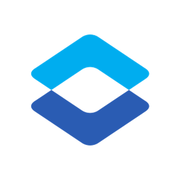
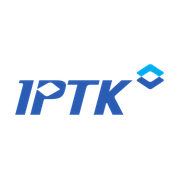
v365: 기준정보 › 바탕화면 바로가기 (IPTK 로고 아이콘) (#57)
* v348: 제작계획등록·제작진행현황 출력 버튼 (A4·A3 인쇄 / PDF / Excel)

- 공용 mes_print.js: 상단 오른쪽 [🖨 출력 ▾] 메뉴
- 인쇄·PDF: 화면 그대로 찍어 가로 용지에 맞춤 (스크롤에 가려진 행 포함, 행 경계에서 쪽 나눔)
- Excel: 서식 양식 (테두리·색·병합, 지연 노랑/앞당김 연두, 제품형상 그림)

Claude-Session: https://claude.ai/code/session_01HCMiutaGwPcULmjGLnqo58

* v349: 금형원가내역 「목표 대비」 줄 가독성 개선 — 목표·실적·결과 세 묶음

- 한 줄로 이어 쓰던 금액을 [목표] 수주가·이익금·목표가+관리비=목표 합계 / [실적] 총원가+관리비=실적 합계 / [결과] 달성률·잔여·현재 이익 으로 나눔
- 항목명은 위에 작게, 금액은 아래 크게 · 합계 칸 강조 · 목표 초과는 빨강

Claude-Session: https://claude.ai/code/session_01HCMiutaGwPcULmjGLnqo58

* v350: 매입현황 합계 줄 가독성 개선

- 견적가·확정가 합계를 각 열 바로 아래에 맞춰 표시
- 왼쪽에 합계 건수 · 구분별 소계(원재료·구매품·외주가공 등, 2종 이상일 때) · 확정−견적 차액(증가 빨강/감소 초록)

Claude-Session: https://claude.ai/code/session_01HCMiutaGwPcULmjGLnqo58

* v351: PartList 등록(원재료) — 금형번호별 도면 PDF 일괄등록

- [📄 도면PDF 일괄등록]: PDF 여러 개 또는 ZIP 선택 → 파일 이름 앞 금형번호(B17A_….pdf → B17A)로 자동 연결
- 미리보기 창에서 맞음/목록 밖/PDF 없는 금형번호 확인 후 올리기 (같은 파일 재등록은 덮어씀)
- 저장: 비공개 도면 저장소(mes-drawing) + 도면대장(drawings) — 도면관리 화면에서도 보임
- 표의 📷 칸에 빨간 PDF 표시, 누르면 도면이 열림 (여러 장이면 목록에서 선택)

Claude-Session: https://claude.ai/code/session_01HCMiutaGwPcULmjGLnqo58

* v353: 앱 버전 올림 — 탭 화면이 브라우저에 남은 옛 사본 대신 새 화면을 받도록

v348~v351 화면(출력 버튼·합계 줄·도면 PDF)이 APP_VER 352 로 캐시된 옛 사본에 가려 보이지 않던 문제.

Claude-Session: https://claude.ai/code/session_01HCMiutaGwPcULmjGLnqo58

* v354: 사내외가공 발주 — 그림 칸에 도면 PDF 표시

- 도면대장(drawings)의 금형번호별 도면을 함께 읽어 그림 칸에 빨간 PDF 표시 (여러 장이면 PDF2 → 목록에서 선택)
- PDF 표시를 누르면 도면이 열리고, 칸의 다른 곳을 누르면 종전처럼 그림보드
- 제번 여러 개 보기 · 한 제번 보기 두 경로 모두 반영
[…]

Changed region(s): [[0.0833, 0.1667, 0.9167, 0.8333]]

diff --git a/desktop_shortcut.html b/desktop_shortcut.html
@@ -1,0 +1,65 @@
+<!doctype html><html lang="ko"><head><meta charset="utf-8"><meta name="viewport" content="width=device-width,initial-scale=1"><title>바탕화면 바로가기</title><style>
+/* v365: 바탕화면 바로가기 — 크롬·엣지는 「앱 설치」(IPTK 로고 아이콘), 안 되면 바로가기 만드는 작은 파일 */
+:root{--line:#98a6b2;--ink:#344757}
+*{box-sizing:border-box}html,body{height:100%;margin:0}body{font-family:"Malgun Gothic","맑은 고딕",Arial,sans-serif;font-size:13px;color:var(--ink);background:#f3f6f9}
+.title{height:48px;padding:8px 14px 5px;border-bottom:2px solid #3978ae;display:flex;align-items:center;background:#fff}.title h1{margin:0;font-size:22px;font-weight:500;color:#4b5c6a}
+.wrap{max-width:760px;margin:24px auto;padding:0 16px}
+.card{background:#fff;border:1px solid #c5d0d8;border-radius:8px;padding:22px 24px;box-shadow:0 2px 8px rgba(0,0,0,.05)}
+.top{display:flex;gap:22px;align-items:center}
+.top img{width:112px;height:112px;border-radius:20px;box-shadow:0 2px 10px rgba(0,0,0,.18);background:#fff}
+.top h2{margin:0 0 6px;font-size:19px;color:#1d3f5f}.top p{margin:0;color:#5d6e7d;line-height:1.7}
+.go{display:block;width:100%;margin:22px 0 8px;height:54px;font-size:17px;font-weight:700;border:1px solid #2e7d32;border-radius:6px;background:linear-gradient(#eaf7ea,#c8e8c9);color:#1e5e22;cursor:pointer}
+.go:hover{background:#dff3e0}
+#msg{min-height:22px;font-weight:700;color:#1d5da3;text-align:center}
+#msg.ok{color:#2e7d32}#msg.warn{color:#b26a00}
+.how{margin-top:18px;border-top:1px dashed #d5dde3;padding-top:14px;color:#5d6e7d;line-height:1.8}
+.how b{color:#1d5da3}.how ol{margin:4px 0 0 18px;padding:0}
+.alt{margin-top:10px;height:30px;padding:0 12px;border:1px solid #9ba8b4;background:linear-gradient(#fff,#e9eef2);border-radius:3px;cursor:pointer;font:inherit;font-size:12px}
+</style></head><body>
+<div class="title"><h1>바탕화면 바로가기</h1></div>
+<div class="wrap"><div class="card">
+ <div class="top"><img src="icon-192.png?v=2" alt="IPTK"><div>
+  <h2>바탕화면에 IPTK MES 바로가기 만들기</h2>
+  <p>아래 버튼을 누르면 이 PC 바탕화면에 <b>IPTK 로고</b> 아이콘의 바로가기가 생깁니다.<br>다음부터는 바탕화면 아이콘을 더블클릭해 바로 들어오세요.</p>
+ </div></div>
+ <button class="go" id="go" type="button">🖥 바탕화면에 바로가기 만들기</button>
+ <div id="msg"></div>
+ <div class="how">
+  <b>크롬·엣지</b>: 버튼을 누르면 「앱 설치」 창이 뜹니다 → <b>설치</b> 를 누르면 바탕화면·시작 메뉴에 IPTK 아이콘이 생깁니다. (엣지는 「바탕화면 바로가기 만들기」 에 체크)<br>
+  <b>그 밖의 경우</b> (이미 설치했거나 다른 브라우저): 작은 파일 <b>IPTK_바탕화면바로가기.bat</b> 을 내려받습니다 → <b>더블클릭</b> 하면 바탕화면에 <b>IPTK MES</b> 바로가기가 생깁니다.
+  <br><button class="alt" id="alt" type="button">⬇ 파일로 만들기 (브라우저로 열리는 바로가기)</button>
+ </div>
+</div></div>
+<script>
+const say=(t,c)=>{const m=document.getElementById('msg');m.textContent=t;m.className=c||''};
+const SITE=(location.origin+location.pathname.replace(/[^/]*$/,'')).replace(/\/$/,'');
+function batFile(){
+ /* 바탕화면에 「IPTK MES.url」(인터넷 바로가기) + 아이콘은 사이트의 favicon.ico 를 %LOCALAPPDATA%\IPTK 에 받아서 */
+ const q=v=>String(v).replace(/[^A-Za-z0-9:/._?=&%-]/g,'');
+ const ps="$d=Join-Path $env:LOCALAPPDATA 'IPTK'; New-Item -ItemType Directory -Force -Path $d | Out-Null; $ico=Join-Path $d 'iptk_mes.ico'; "+
+  "Invoke-WebRequest -UseBasicParsing '"+q(SITE)+"/favicon.ico?v=2' -OutFile $ico; "+
+  "$f=Join-Path ([Environment]::GetFolderPath('Desktop')) 'IPTK MES.url'; "+
+  "Set-Content -Path $f -Encoding Default -Value @('[InternetShortcut]','URL="+q(SITE)+"/index.html','IconFile='+$ico,'IconIndex=0')";
+ const bat=['@echo off','chcp 65001 >nul','title IPTK MES 바탕화면 바로가기','echo 바탕화면에 IPTK MES 바로가기를 만드는 중...',
+  'powershell -NoProfile -ExecutionPolicy Bypass -Command "'+ps+'"','echo 완료 - 바탕화면의 IPTK MES 아이콘을 더블클릭하세요.','timeout /t 4 >nul',''].join('\r\n');
+ const a=document.createElement('a');a.href=URL.createObjectURL(new Blob([bat],{type:'application/octet-stream'}));a.download='IPTK_바탕화면바로가기.bat';
+ document.body.appendChild(a);a.click();setTimeout(()=>{URL.revokeObjectURL(a.href);a.remove()},1500);
+ say('파일을 받았습니다 — 다운로드 폴더의 IPTK_바탕화면바로가기.bat 을 더블클릭하세요. (「Windows의 PC 보호」 창이 뜨면 추가 정보 → 실행)','warn');
+}
+async function make(){
+ let p=null,inst=false;try{p=window.parent.MES_INSTALL;inst=!!window.parent.MES_INSTALLED}catch(e){}
+ const standalone=(()=>{try{return (window.parent||window).matchMedia('(display-mode: standalone)').matches}catch(e){return false}})();
+ if(standalone){say('이미 IPTK 앱으로 실행 중입니다 — 바탕화면에 아이콘이 없으면 [파일로 만들기] 를 누르세요.','ok');return}
+ if(p){
+  try{p.prompt();const r=await p.userChoice;try{window.parent.MES_INSTALL=null}catch(e){}
+   if(r&&r.outcome==='accepted')return say('설치했습니다 — 바탕화면과 시작 메뉴에 IPTK 아이콘이 생겼습니다.','ok');
+   return say('설치를 취소했습니다. 다시 하려면 이 화면을 새로 열어 주세요.','warn')}catch(e){}
+ }
+ if(inst)return say('이미 설치되어 있습니다 — 바탕화면에 아이콘이 없으면 [파일로 만들기] 를 누르세요.','ok');
+ batFile();
+}
+document.getElementById('go').onclick=make;
+document.getElementById('alt').onclick=batFile;
+</script>
+<script src="mes_ctx.js?v=306"></script>
+</body></html>

diff --git a/index.html b/index.html
@@ -4,10 +4,13 @@
 <meta charset="utf-8">
 <meta name="viewport" content="width=device-width,initial-scale=1">
 <title>IPTK MES</title>
-<link rel="icon" href="favicon.ico" sizes="any">
+<link rel="icon" href="favicon.ico?v=2" sizes="any">
 <link rel="icon" type="image/png" href="icon-192.png">
-<link rel="apple-touch-icon" href="apple-touch-icon.png">
-<link rel="manifest" href="manifest.webmanifest">
+<link rel="apple-touch-icon" href="apple-touch-icon.png?v=2">
+<link rel="manifest" href="manifest.webmanifest?v=2">
+<script>/* v365: 바탕화면 바로가기 — 브라우저의 「앱 설치」 요청을 받아 두었다가 [바탕화면 바로가기] 화면에서 쓴다 */
+window.addEventListener('beforeinstallprompt',e=>{e.preventDefault();window.MES_INSTALL=e});
+window.addEventListener('appinstalled',()=>{window.MES_INSTALL=null;window.MES_INSTALLED=true});</script>
 <meta name="theme-color" content="#1f2733">
 <link rel="preconnect" href="https://ipggvrzxfcryzryileuv.supabase.co" crossorigin>
 <link rel="dns-prefetch" href="https://ipggvrzxfcryzryileuv.supabase.co">
@@ -260,7 +263,7 @@ a.menu-off,a.menu-off:hover{color:#9aa5ae!important;opacity:.55;cursor:not-allow
 </div>
 
 <script>
-const APP_VER='363';   // v363: 수주등록 T/O 완료일·납기예정일 자리 바꿈 · v362: 이 PC 를 변환 PC 로 (설치 파일)
+const APP_VER='365';   // v365: 바탕화면 바로가기 (IPTK 로고)
 const APP={
   '영업관리':{
     secondary:[
@@ -407,7 +410,8 @@ const APP={
         {name:'시스템',items:['DB 동기화','에러로그']},
         {name:'인사',items:['부서정보','직급정보']},
         {name:'단가관리',items:['자재단가변동등록','자재단가변동현황','공정단가변동등록','공정단가변동현황','작업단가']},
-        {name:'알림',items:['알림등록']}   /* v230 */
+        {name:'알림',items:['알림등록']},   /* v230 */
+        {name:'바로가기',items:['바탕화면 바로가기']}   /* v365 */
       ]
     }
   }
@@ -543,6 +547,7 @@ const pageRegistry={
 '협력업체 인증현황':{id:'vendor_certificate_status',file:'vendor_certificate_status.html',title:'협력업체 인증현황'},
 '월간보고서':{id:'monthly_report',file:'monthly_report.html',title:'월간보고서'},   /* v285 */
 '사용메뉴얼':{id:'user_manual',file:'user_manual.html',title:'사용메뉴얼'},
+'바탕화면 바로가기':{id:'desktop_shortcut',file:'desktop_shortcut.html',title:'바탕화면 바로가기'},   /* v365 */
 '도면변환':{id:'dwg_convert',file:'dwg_convert.html',title:'도면변환'},   /* v358 */
 '수정요청게시판':{id:'mod_request_board',file:'mod_request_board.html',title:'수정요청게시판'},
 '조직도':{id:'org_chart',file:'org_chart.html',title:'조직도'}
